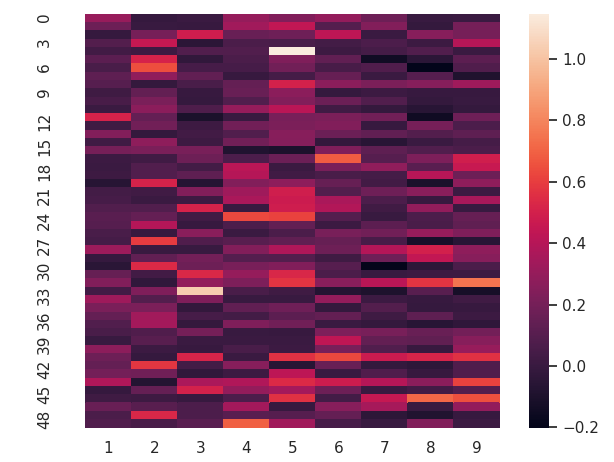
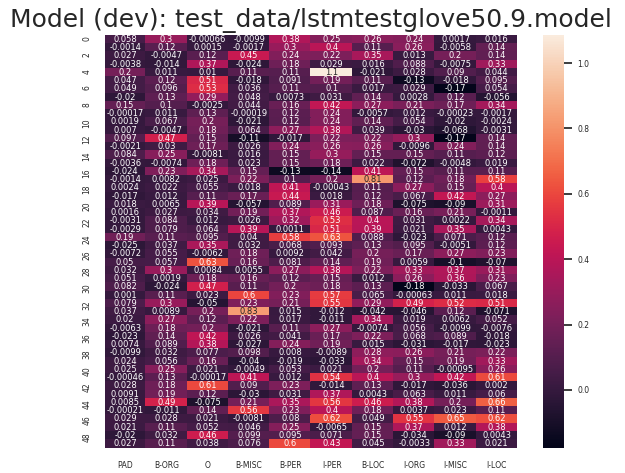
Updates to heatmap and command-line args

diff --git a/main.py b/main.py
@@ -28,24 +28,69 @@ try:
     import cPickle as pickle
 except ImportError:
     import pickle
-'''
-# Modifications by Denise Mak dpm3@uw.edu
-# Feb 2020
-#
-'''
-# line 579 of main.py
-REALLY_TRAIN = False
-# TRAINED_FILE = 'test_data/lstmtestglove50.10.model'
-TRAINED_FILE = 'test_data/lstmtest.9.model'
-# "sample_data/lstmcrf.19.model"
-# TRAINED_FILE = 'sample_data/lstmGlovecrf.8.model'
-# TRAINED_FILE = 'sample_data/lstmGloveBIOcrf.9.model'
 
+DEFAULT_TRAINED_FILE = 'test_data/lstmtestglove50.9.model'
 
 seed_num = 42
 random.seed(seed_num)
 torch.manual_seed(seed_num)
 np.random.seed(seed_num)
+
+def heatmap_sensitivity(sensitivities,
+                        modelname=DEFAULT_TRAINED_FILE,
+                        testname="",
+                        show_pad=True, show_vals=True):
+    '''
+    Shows a heatmap for the sensitivity values.
+    :param sensitivities: This is a matrix of [num_tags, num_neurons],
+    which is [10 x 50] in our experimental configuration.
+    :return:
+    '''
+    # transpose to match chart in Figure 7. of paper
+    sensitivities = np.transpose(sensitivities)
+    # column 0 is the padding tag
+    start = 1
+    if show_pad:
+        start = 0
+    sensitivities = sensitivities[0:50, start:10]
+    sns.set()
+    # Smaller than normal fonts
+    sns.set(font_scale=0.5)
+    x_tick = [data.label_alphabet.get_instance(tag) for tag in sorted(data.tag_counts)]
+    if show_pad: x_tick[0] = 'PAD'
+    # put sensititivites in heat map
+    ax = sns.heatmap(sensitivities, xticklabels=x_tick, annot=show_vals, fmt=".2g")
+    title = "Model ({}): ".format(testname) + modelname
+    plt.title(title, fontsize=18)
+    ttl = ax.title
+    ttl.set_position([0.5, 1.05])
+    plt.show()
+    ax.figure.savefig(modelname+"_heatmap.png")
+
+def get_sensitivity_matrix(label, debug=True):
+    '''
+    Given a tag like 4: (B-PER), return the sensitivity matrix
+    :param label:
+    :return:
+    '''
+
+    avg_for_label = data.tag_contributions[label]/data.tag_counts[label]
+    sum_other_counts = 0
+
+    # data.tag_contributions[0]  # this SHOULD be zero for masked label
+    sum_other_contributions = np.zeros((10, 50))# data.tag_contributions[0]  # this will be zero for masked label
+    for l in data.tag_counts:
+
+        if l != label and l != 0:  #  if l != label:
+
+            #  WAS if l != label and l != 0:, but if sum_other_counts is bigger, the entire sensitivity is bigger
+            sum_other_counts += data.tag_counts[l]
+            sum_other_contributions += data.tag_contributions[l]
+    avg_for_others = sum_other_contributions/sum_other_counts
+
+    s_ij = avg_for_label - avg_for_others
+    s_ij_label = s_ij[label]
+    return s_ij_label  # was return s_ij
 
 
 def data_initialization(data):
@@ -148,51 +193,7 @@ def lr_decay(optimizer, epoch, decay_rate, init_lr):
         param_group['lr'] = lr
     return optimizer
 
-def heatmap_sensitivity(sensitivities):
-    '''
-    Shows a heatmap for the sensitivity values.
-    :param sensitivities: This is a matrix of [num_tags, num_neurons],
-    which is [10 x 50] in our experimental configuration.
-    :return:
-    '''
-    # transpose to match chart in Figure 7. of paper
-    sensitivities = np.transpose(sensitivities)
-    # column 0 is the padding tag
-    sensitivities = sensitivities[0:50, 1:10]
-    sns.set()
-    # put sensititivites in heat map
-    ax = sns.heatmap(sensitivities)
-    title = "Model: " + TRAINED_FILE
-    plt.title(title, fontsize=18)
-    ttl = ax.title
-    ttl.set_position([0.5, 1.05])
-    plt.show()
-    ax.figure.savefig(TRAINED_FILE+"_heatmap.png")
 
-def get_sensitivity_matrix(label):
-    '''
-    Given a tag like 4: (B-PER), return the sensitivity matrix
-    :param label:
-    :return:
-    '''
-
-    avg_for_label = data.tag_contributions[label]/data.tag_counts[label]
-    sum_other_counts = 0
-
-    # data.tag_contributions[0]  # this SHOULD be zero for masked label
-    sum_other_contributions = np.zeros((10, 50))# data.tag_contributions[0]  # this will be zero for masked label
-    for l in data.tag_counts:
-
-        if l != label and l != 0:  #  if l != label:
-
-            #  WAS if l != label and l != 0:, but if sum_other_counts is bigger, the entire sensitivity is bigger
-            sum_other_counts += data.tag_counts[l]
-            sum_other_contributions += data.tag_contributions[l]
-    avg_for_others = sum_other_contributions/sum_other_counts
-
-    s_ij = avg_for_label - avg_for_others
-    s_ij_label = s_ij[label]
-    return s_ij_label  # was return s_ij
 
 
 def evaluate(data, model, name, nbest=None):
@@ -447,13 +448,14 @@ def load_model_to_test(data, train=False, dev=True, test=False):
         model = SentClassifier(data)
     else:
         model = SeqLabel(data)
-    model.load_state_dict(torch.load(TRAINED_FILE))
+    model.load_state_dict(torch.load(data.pretrained_model_path))
 
 
 
     '''----------------TESTING----------------'''
     if (train):
-        speed, acc, p, r, f, _,_ = evaluate(data, model, "train")
+        speed, acc, p, r, f, _,_, train_sensitivities = evaluate(data, model, "train")
+        heatmap_sensitivity(train_sensitivities, data.pretrained_model_path, testname="train")
         if data.seg:
             current_score = f
             print("Speed: %.2fst/s; acc: %.4f, p: %.4f, r: %.4f, f: %.4f"%(speed, acc, p, r, f))
@@ -463,7 +465,7 @@ def load_model_to_test(data, train=False, dev=True, test=False):
 
     if (dev):
         speed, acc, p, r, f, _,_, sensitivities = evaluate(data, model, "dev")
-        heatmap_sensitivity(sensitivities)
+        heatmap_sensitivity(sensitivities, data.pretrained_model_path, testname="dev")
 
 
         if data.seg:
@@ -572,7 +574,8 @@ def train(data):
             print("ERROR: LOSS EXPLOSION (>1e8) ! PLEASE SET PROPER PARAMETERS AND STRUCTURE! EXIT....")
             exit(1)
         # continue
-        speed, acc, p, r, f, _,_ = evaluate(data, model, "dev")
+        speed, acc, p, r, f, _,_ , sensitivities = evaluate(data, model, "dev")
+
         dev_finish = time.time()
         dev_cost = dev_finish - epoch_finish
 
@@ -593,7 +596,9 @@ def train(data):
             torch.save(model.state_dict(), model_name)
             best_dev = current_score
         # ## decode test
-        speed, acc, p, r, f, _,_ = evaluate(data, model, "test")
+        speed, acc, p, r, f, _,_ , sensitivities = evaluate(data, model, "test")
+
+
         test_finish = time.time()
         test_cost = test_finish - dev_finish
         if data.seg:
@@ -649,7 +654,9 @@ if __name__ == '__main__':
     parser.add_argument('--seg', default="True") 
     parser.add_argument('--raw') 
     parser.add_argument('--loadmodel')
-    parser.add_argument('--output') 
+    parser.add_argument('--output')
+    parser.add_argument('--loadtotest', help='Load the model just to test it')
+    parser.add_argument('--pretrainedmodelpath', help='Path to a pretrained model that you just want to test', default=DEFAULT_TRAINED_FILE)
 
     args = parser.parse_args()
     data = Data()
@@ -671,6 +678,9 @@ if __name__ == '__main__':
         print("Seed num:",seed_num)
     else:
         data.read_config(args.config)
+
+    # adding arg for pretrained model path
+    data.pretrained_model_path = args.pretrainedmodelpath
     # data.show_data_summary()
     status = data.status.lower()
     print("Seed num:",seed_num)
@@ -682,9 +692,11 @@ if __name__ == '__main__':
         data.generate_instance('dev')
         data.generate_instance('test')
         data.build_pretrain_emb()
-        if REALLY_TRAIN:
+        if not args.loadtotest:
+            print("Training model, not just testing because --loadtotest is {}".format(args.loadtotest))
             train(data)
         else:
+            print("Loading model to test.")
             load_model_to_test(data)
     elif status == 'decode':
         print("MODEL: decode")

diff --git a/model/seqlabel.py b/model/seqlabel.py
@@ -66,16 +66,15 @@ class SeqLabel(nn.Module):
 
     def update_tag_contribution(self, contribution_matrix, tag):
         if tag == 0:
-
-            if contribution_matrix[0][0] != 0:
-                # TODO: Fix this to get the max and min and compare to zero
-
-                print("contribution matrix should have zeros for zero tag")
+            if np.max(contribution_matrix[0]) > 0:
+                print("contribution matrix should have zeros for zero tag: {}".format(
+                    contribution_matrix[0]
+                ))
 
         if tag not in self.data.tag_contributions:
             if tag != 0:
                 self.data.tag_contributions[tag] = contribution_matrix
-            else:
+            else: # 0
                 self.data.tag_contributions[0] = np.zeros((10, 50))
             self.data.tag_counts[tag] = 1
         else:

diff --git a/utils/data.py b/utils/data.py
@@ -66,7 +66,7 @@ class Data:
         self.dset_dir = None ## data vocabulary related file
         self.model_dir = None ## model save  file
         self.load_model_dir = None ## model load file
-
+        self.pretrained_model_path = None ## full path to model to load for testing
         self.word_emb_dir = None
         self.char_emb_dir = None
         self.feature_emb_dirs = []
@@ -122,6 +122,9 @@ class Data:
         self.HP_clip = None
         self.HP_momentum = 0
         self.HP_l2 = 1e-8
+
+        ## sensitivity testing
+        self.test_name = None
 
     def show_data_summary(self):
         
